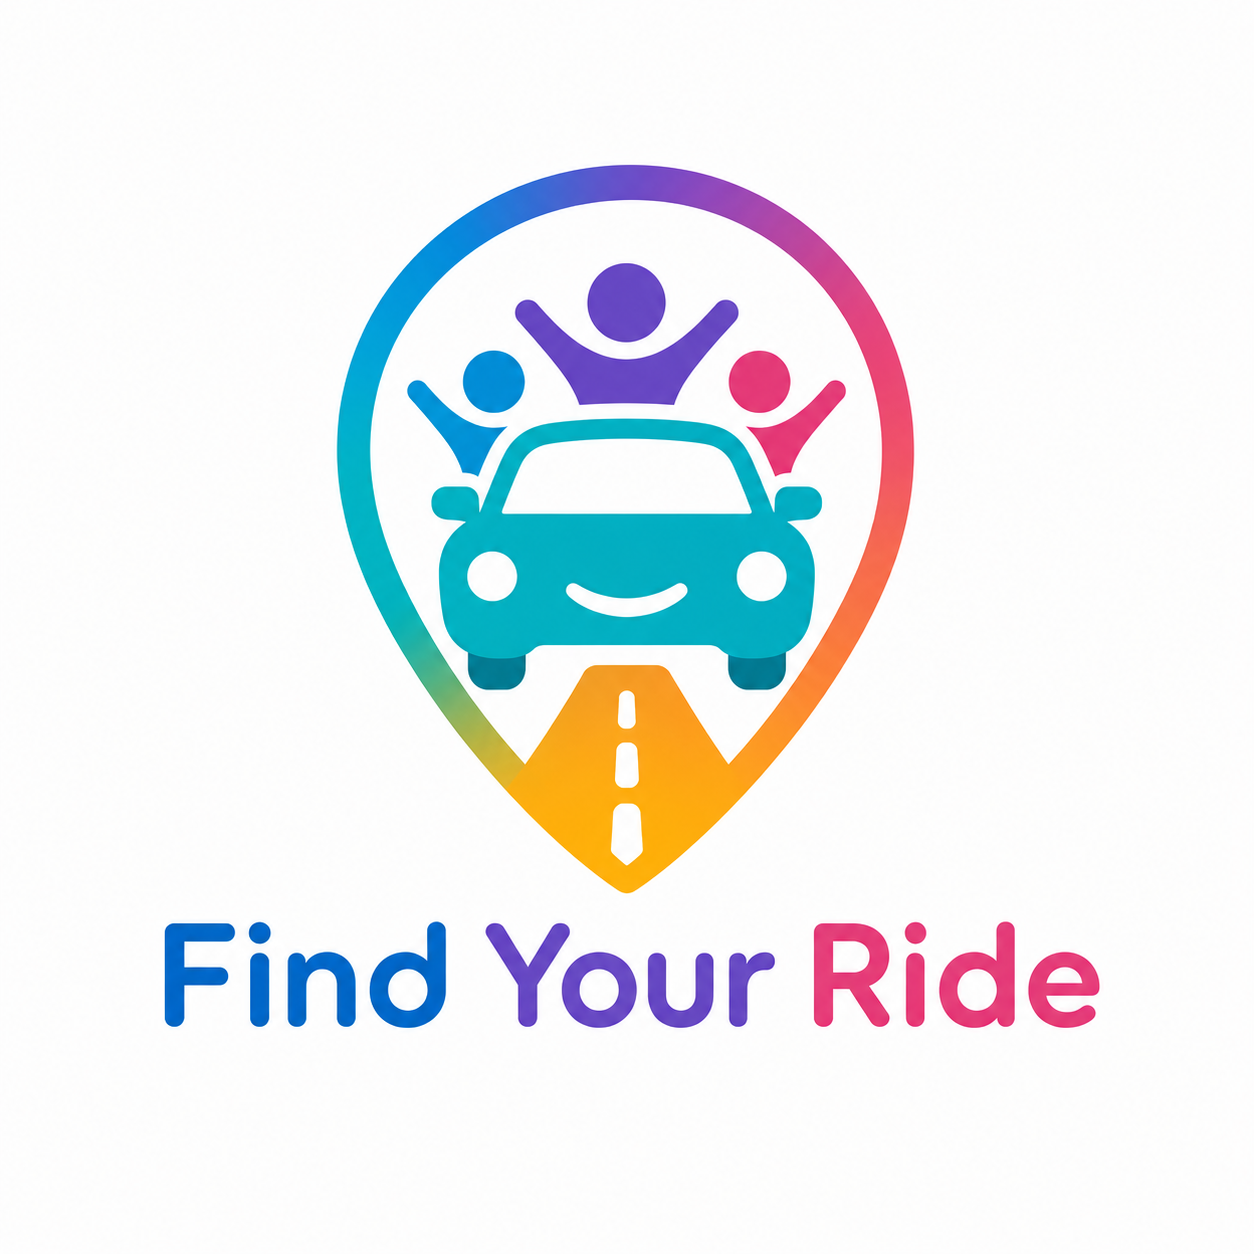
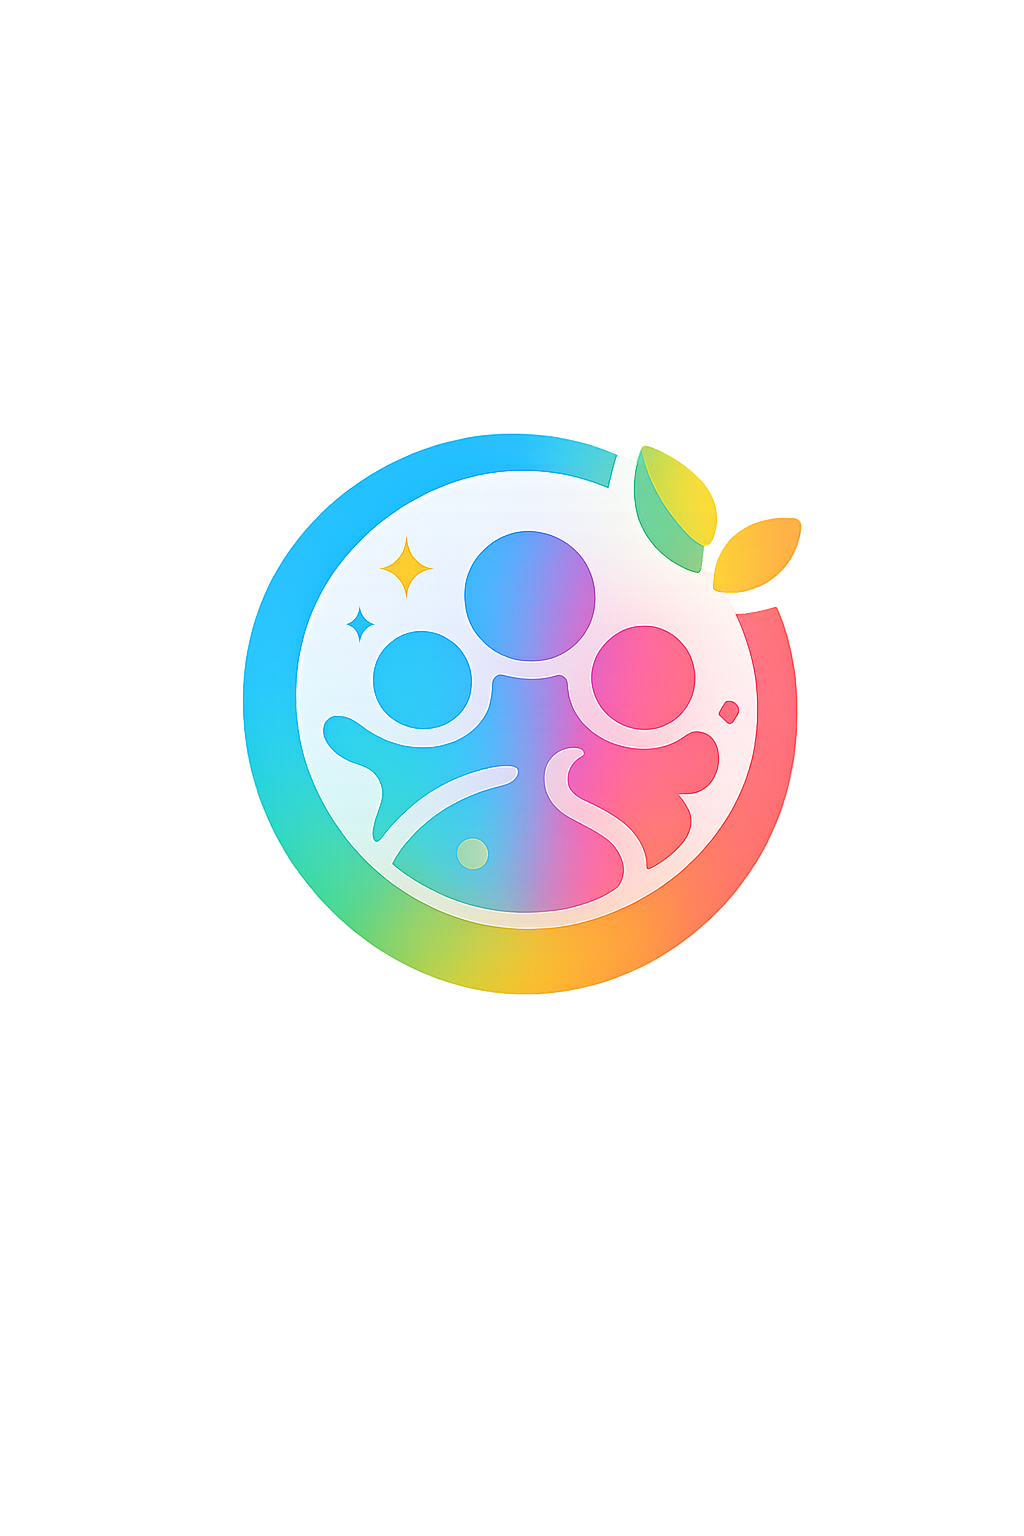
UI changes

Changed region(s): [[0.2188, 0.1244, 0.7812, 0.7153], [0.125, 0.7153, 0.875, 0.8397]]

diff --git a/src/components/AppLogo.tsx b/src/components/AppLogo.tsx
@@ -3,39 +3,32 @@
 import Image from "next/image";
 import Link from "next/link";
 import { useState } from "react";
-import { APP_LOGO_PATH, APP_NAME } from "@/lib/branding";
+import { APP_LOGO_ICON_PATH, APP_NAME } from "@/lib/branding";
 
 type AppLogoProps = {
   className?: string;
-  /** Set true only if the logo image is icon-only (this lockup already includes the name). */
   showName?: boolean;
 };
 
-export function AppLogo({ className = "", showName = false }: AppLogoProps) {
+export function AppLogo({ className = "", showName = true }: AppLogoProps) {
   const [logoMissing, setLogoMissing] = useState(false);
-
-  if (logoMissing) {
-    return (
-      <Link href="/" className={`app-logo ${className}`} aria-label={APP_NAME}>
-        <span className="app-logo__name truncate">{APP_NAME}</span>
-      </Link>
-    );
-  }
 
   return (
     <Link href="/" className={`app-logo ${className}`} aria-label={APP_NAME}>
-      <Image
-        src={APP_LOGO_PATH}
-        alt={APP_NAME}
-        width={140}
-        height={48}
-        className="app-logo__lockup h-9 w-auto object-contain sm:h-10"
-        onError={() => setLogoMissing(true)}
-        priority
-      />
-      {showName && (
-        <span className="app-logo__name truncate">{APP_NAME}</span>
+      {!logoMissing && (
+        <span className="app-logo__icon-wrap">
+          <Image
+            src={APP_LOGO_ICON_PATH}
+            alt=""
+            width={48}
+            height={48}
+            className="app-logo__icon"
+            onError={() => setLogoMissing(true)}
+            priority
+          />
+        </span>
       )}
+      {showName && <span className="app-logo__name">{APP_NAME}</span>}
     </Link>
   );
 }

diff --git a/src/app/globals.css b/src/app/globals.css
@@ -298,28 +298,24 @@ body {
   }
 
   .app-logo {
-    @apply inline-flex min-w-0 max-w-full items-center gap-2.5 rounded-lg transition-opacity hover:opacity-90;
+    @apply inline-flex min-w-0 max-w-full items-center gap-3 rounded-lg transition-opacity hover:opacity-90;
     color: var(--header-foreground);
   }
 
-  .app-logo__lockup {
-    @apply block max-w-[8.5rem] sm:max-w-[9.5rem];
+  .app-logo__icon-wrap {
+    @apply flex h-12 w-12 shrink-0 items-center justify-center;
   }
 
-  .app-logo__mark {
-    @apply relative flex h-9 w-9 shrink-0 items-center justify-center overflow-hidden rounded-lg border border-dashed border-slate-300 bg-slate-50;
-  }
-
-  .app-logo__img {
-    @apply h-full w-full object-contain;
-  }
-
-  .app-logo__placeholder {
-    @apply absolute inset-0 flex items-center justify-center bg-slate-50;
+  .app-logo__icon {
+    @apply h-12 w-12 object-contain;
   }
 
   .app-logo__name {
-    @apply truncate text-sm font-bold tracking-tight sm:text-base;
+    @apply truncate text-base font-bold leading-none tracking-tight sm:text-lg;
+    background: linear-gradient(90deg, #2563eb 0%, #7c3aed 45%, #db2777 100%);
+    -webkit-background-clip: text;
+    background-clip: text;
+    color: transparent;
   }
 
   .profile-trigger {

diff --git a/src/app/layout.tsx b/src/app/layout.tsx
@@ -1,6 +1,6 @@
 import type { Metadata } from "next";
 import { Geist, Geist_Mono } from "next/font/google";
-import { APP_NAME, APP_TAGLINE, APP_LOGO_PATH } from "@/lib/branding";
+import { APP_NAME, APP_TAGLINE, APP_LOGO_ICON_PATH } from "@/lib/branding";
 import "./globals.css";
 
 const geistSans = Geist({
@@ -17,9 +17,12 @@ export const metadata: Metadata = {
   title: APP_NAME,
   description: APP_TAGLINE,
   icons: {
-    icon: APP_LOGO_PATH,
-    shortcut: APP_LOGO_PATH,
-    apple: APP_LOGO_PATH,
+    icon: [
+      { url: APP_LOGO_ICON_PATH, sizes: "32x32", type: "image/png" },
+      { url: APP_LOGO_ICON_PATH, sizes: "192x192", type: "image/png" },
+    ],
+    shortcut: APP_LOGO_ICON_PATH,
+    apple: APP_LOGO_ICON_PATH,
   },
   other: {
     "format-detection": "telephone=no",

diff --git a/src/lib/branding.ts b/src/lib/branding.ts
@@ -1,7 +1,10 @@
-/** App display name shown in the browser title and accessibility labels. */
+/** App display name shown in the header and browser title. */
 export const APP_NAME = "Find Your Ride";
 
-/** Logo lockup at `public/find-ride.png` (used in header and browser tab). */
+/** Pin/graphic only — cropped from the full lockup (header + favicon). */
+export const APP_LOGO_ICON_PATH = "/find-ride-icon.png";
+
+/** Full vertical lockup with icon and wordmark. */
 export const APP_LOGO_PATH = "/find-ride.png";
 
 export const APP_TAGLINE =